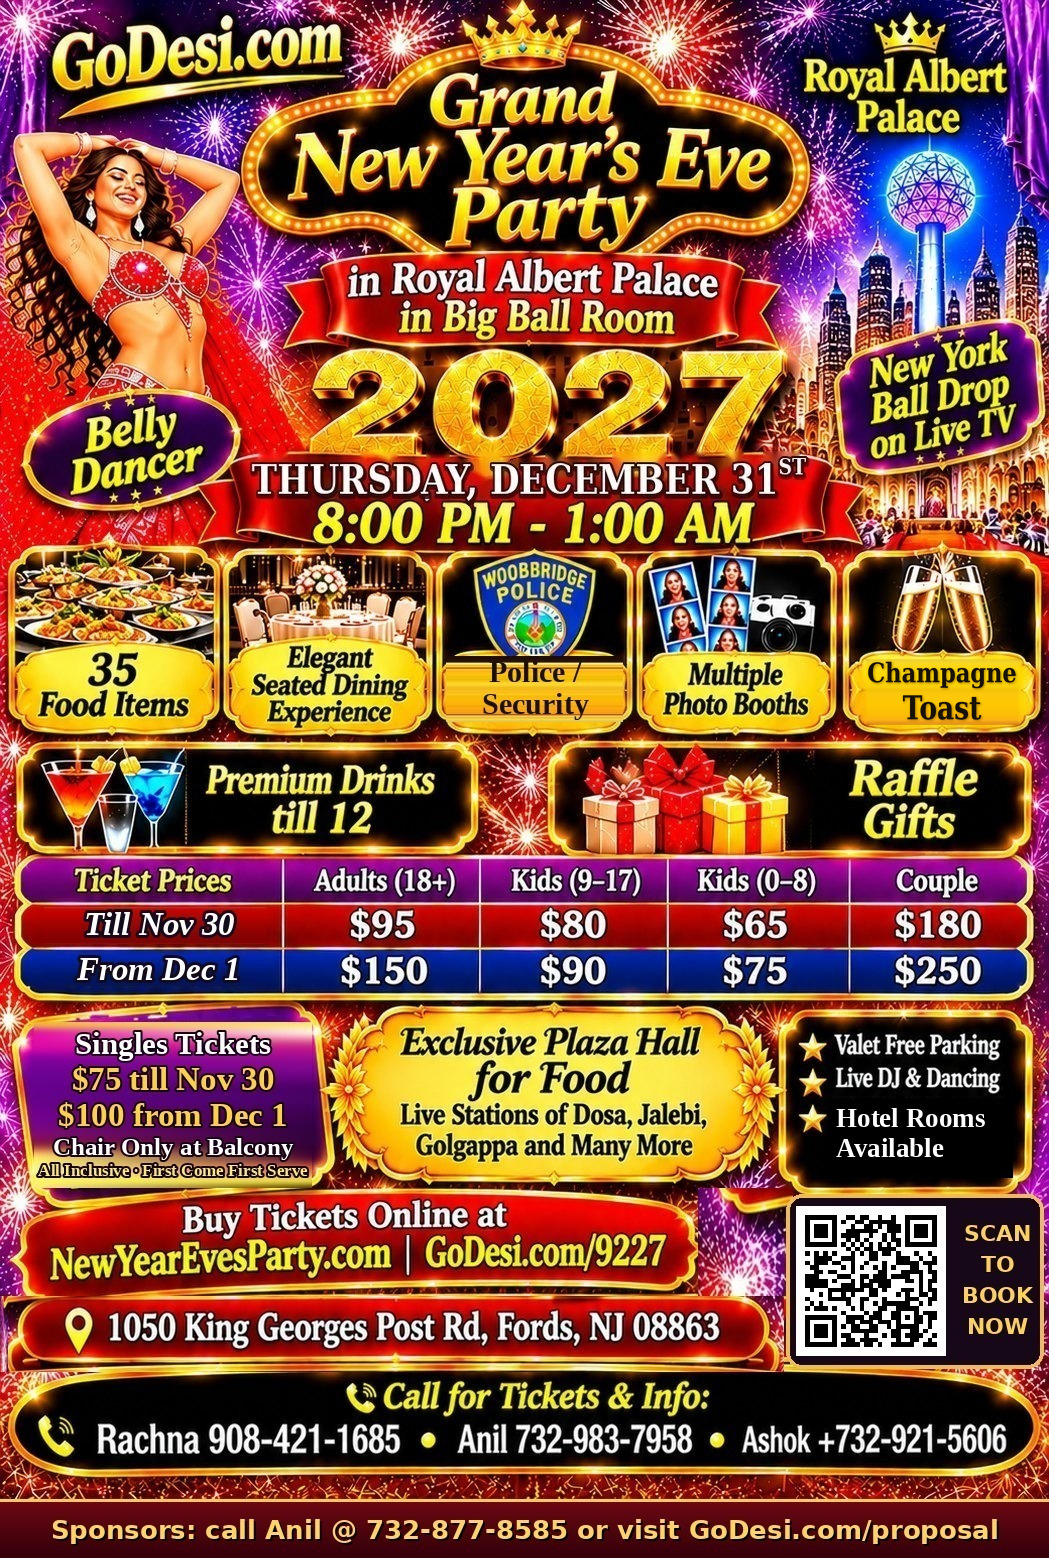
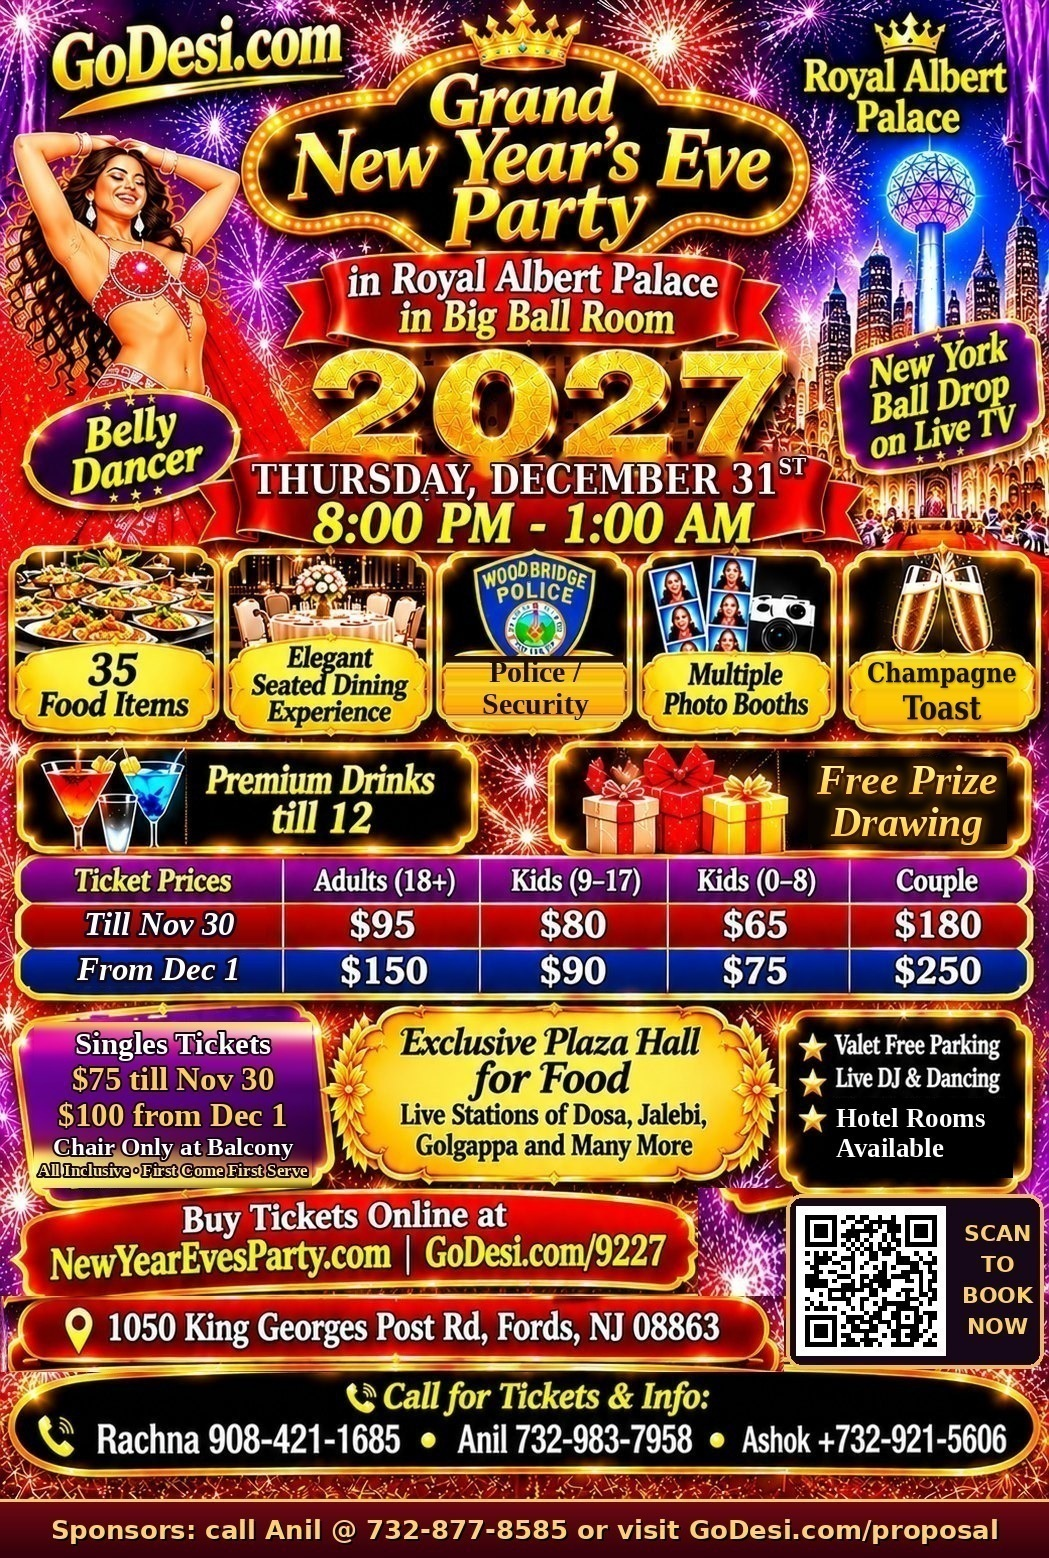
NYE 2027 flyer: Free Prize Drawing (was Raffle Gifts), Woodbridge spelling; copy says free prize drawing

diff --git a/scripts/nye-2027-to-newyearevesparty.ts b/scripts/nye-2027-to-newyearevesparty.ts
@@ -17,7 +17,7 @@ const TITLE = "Grand New Year's Eve Party 2027 at Royal Albert Palace, Fords NJ 
 
 const SUMMARY = [
   "NewYearEvesParty.com is hosting the Grand New Year's Eve Party 2027 on Thursday, December 31st, 2026, 8:00 PM to 1:00 AM, in the Big Ball Room at Royal Albert Palace, 1050 King Georges Post Rd, Fords NJ 08863 (near Edison).",
-  "It's a family party: 35 food items, an elegant seated dining experience, an exclusive Plaza Hall with live food stations (dosa, jalebi, golgappa and more), premium drinks until midnight, a midnight champagne toast, live DJ Sandy of M&D Events, a live belly dance performance, the New York ball drop on live TV, multiple photo booths, exciting raffle prizes, police / security and free valet parking. Hotel rooms available.",
+  "It's a family party: 35 food items, an elegant seated dining experience, an exclusive Plaza Hall with live food stations (dosa, jalebi, golgappa and more), premium drinks until midnight, a midnight champagne toast, live DJ Sandy of M&D Events, a live belly dance performance, the New York ball drop on live TV, multiple photo booths, a free prize drawing, police / security and free valet parking. Hotel rooms available.",
   "Till Nov 30: Adults (18+) $95, Kids (9–17) $80, Kids (0–8) $65, Couple $180. From Dec 1: Adults $150, Kids (9–17) $90, Kids (0–8) $75, Couple $250. Book at NewYearEvesParty.com or godesi.com/9227.",
   "Singles get their own first-come-first-served balcony — chair only, no table, all inclusive — $75 till Nov 30, $100 from Dec 1. Limited seats; singles seats on GoDesi are 21+ with photo ID checked at the door. Book at godesi.com/927.",
   "Call for tickets & info: Rachna 908-421-1685 · Anil 732-983-7958 · Ashok 732-921-5606. Sponsors: godesi.com/sponsor2027.",

diff --git a/scripts/update-nye-2027-edison.ts b/scripts/update-nye-2027-edison.ts
@@ -25,7 +25,7 @@ const EARLY_END = LATE_START;
 const DESCRIPTION = [
   "Grand New Year's Eve Party 2027 in the Big Ball Room at Royal Albert Palace — Thursday, December 31st, 2026, 8:00 PM to 1:00 AM. Hosted by NewYearEvesParty.com, celebrating since 2018.",
   "35 food items and an elegant seated dining experience, with an exclusive Plaza Hall of live food stations — dosa, jalebi, golgappa and more. Premium drinks until midnight and a midnight champagne toast.",
-  "Live DJ Sandy of M&D Events, a live belly dance performance, the New York ball drop on live TV, multiple photo booths and exciting raffle prizes. Police / security and free valet parking. Hotel rooms available.",
+  "Live DJ Sandy of M&D Events, a live belly dance performance, the New York ball drop on live TV, multiple photo booths and a free prize drawing. Police / security and free valet parking. Hotel rooms available.",
   "Till Nov 30: Couple $180, Adult (18+) $95, Big Kid (9–17) $80, Small Kid (0–8) $65. From Dec 1: Couple $250, Adult (18+) $150, Big Kid (9–17) $90, Small Kid (0–8) $75. VIP Table for 12 — one reserved VIP table, seats 12, with a bottle of champagne on the table (only 5 tables): $1200 till Nov 30, $2000 from Dec 1. Every ticket includes the elegant seated dining experience, 35 food items in the Plaza Hall and premium drinks until midnight. Balcony $75 till Nov 30, $100 from Dec 1 — adults, chair only, all inclusive, limited seats, first come, first served, no table seating.",
   "Call for tickets & info: Rachna 908-421-1685 · Anil 732-983-7958 · Ashok 732-921-5606. Book online at NewYearEvesParty.com or GoDesi.com/9227.",
   "Sponsors welcome: Silver $1,000, Gold $2,500 and Platinum $5,000 packages, plus single add-ons — GoDesi.com/sponsor2027.",
